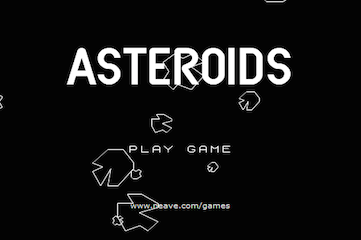
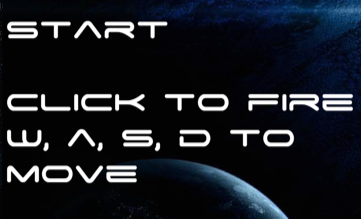
finished creating asteroids case

diff --git a/public/cases/case-asteroids.html b/public/cases/case-asteroids.html
@@ -1,8 +1,9 @@
 <section>        
     <div id="description">
-        <h1>Machine Vision</h1>
+        <h1>Asteroids</h1>
+        <p class="live">Live site: <a href="http://www.queueskipper.com" target="_blank">http://s3-us-west-1.amazonaws.com/mattasteroids/index.html</a></p>
 
-        <p><span class="indent">&nbsp;</span>I haven't built this out too far yet.  Basically I can only recognize circles of a particular size in a generic image.  The next steps will be to parse out the imagery inside them, try to OCR that imagery, and if OCR fails send to mechanical turk.  I've got a plan for this one!<br><br><br> 
+        <p><span class="indent">&nbsp;</span>This is a simple Asteroids game I built with my friend <a href="http://www.mattleick.com/">Matt Leick</a>.  The game uses jQuery and an implementation of Canvas to deliver a basic JavaScript game.<br><br><br> 
 
 
         </p>
@@ -17,8 +18,9 @@
     
     <div id="images">
     
-        <img src="img/port-cases/mv/mv.png" alt="" class="first" style="opacity: 0.0">
-        <img src="img/port-cases/mv/mv.png" alt="">
+        <img src="img/port-cases/asteroids/asteroids1.png" alt="" class="first">
+        <img src="img/port-cases/asteroids/asteroids2.png" alt="">
+        <img src="img/port-cases/asteroids/asteroids3.png" alt="">
         
     </div>
 </section>

diff --git a/public/index.html b/public/index.html
@@ -58,7 +58,7 @@
                 	<div class="left-container">
                     	<a href="#" rel="case-asteroids" class="caselink">
                             <img src="img/port-thumbs/asteroids.png" alt="">
-                            <div class="thumbhover">Javascript Asteroids (COMING SOON)<span>2014: JS browser game</span></div>
+                            <div class="thumbhover">Javascript Asteroids<span>2014: JS browser game</span></div>
                         </a>
                     </div>
                 </div>
@@ -92,7 +92,7 @@
 	</div>
 	
 	
-	<!-- Grab Google CDN's jQuery, with a protocol relative URL; fall back to local if offline -->
+<!-- credit to @wantstobegreat for site inspiration https://twitter.com/wantstobegreat -->
 
 	<script src="http://ajax.googleapis.com/ajax/libs/jquery/1.11.1/jquery.min.js"></script>
     <script>window.jQuery || document.write('<script src="js/libs/jquery-1.11.1.js"><\/script>')</script>
